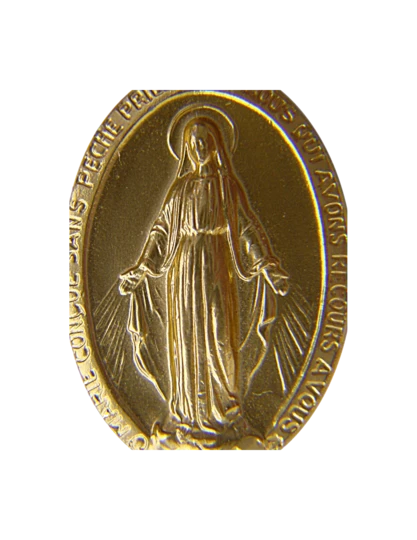
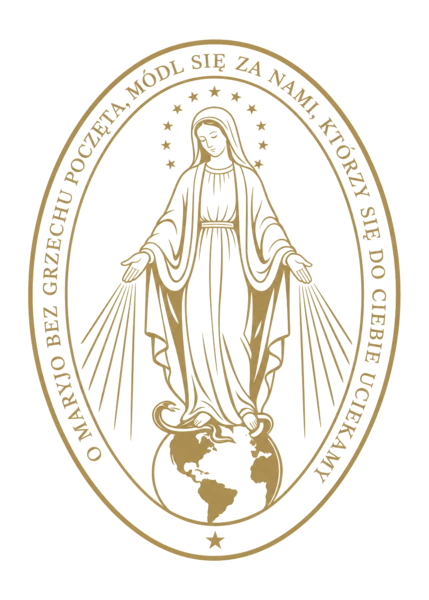
design(grupy): Dzieci Maryi — flache Gold-Illustration via gpt-image-2
Foto der physischen Medaille passte nicht zu den 11 anderen Karten
(visuelle Sprachen-Clash: 3D-Foto vs 2D-Illustrationen). Loesung:
saubere flache Vektor-stil-Illustration via OpenAI gpt-image-2
generiert. Matched jetzt die anderen Logos:
- Warm-Gold-Ton (#a68b5b)
- Flat 2D, keine Metalltexturen / Schatten
- Komplette polnische Inschrift "O MARYJO BEZ GRZECHU POCZETA..."
- Transparent PNG → WebP
- 12-Sterne-Krone, Maria auf Erdkugel mit Schlange, Strahlen
  der Gnade — kanonische Darstellung des Cudownego Medalika

Cost: gpt-image-2 high quality 1024x1024 (geloggt in ~/.openai-image/costs.json)

diff --git a/index.html b/index.html
@@ -778,7 +778,7 @@
       <!-- Grono Dzieci Maryi -->
       <a href="wspolnota-grono-dzieci-maryi.html" class="community-item reveal">
         <div class="community-image community-image--logo" style="background:#f5f1ea;">
-          <img src="images/grupy/grono-dzieci-maryi.webp" alt="Cudowny Medalik – emblemat Grona Dzieci Maryi" loading="lazy" width="460" height="540" onerror="this.style.display='none'; this.nextElementSibling.style.display='flex'">
+          <img src="images/grupy/grono-dzieci-maryi.webp" alt="Cudowny Medalik – emblemat Grona Dzieci Maryi" loading="lazy" width="429" height="600" onerror="this.style.display='none'; this.nextElementSibling.style.display='flex'">
           <div class="community-image-placeholder" style="background: linear-gradient(135deg, #9a8b76, #7a6d5c); display: none;">
             <span class="community-icon">
               <svg viewBox="0 0 24 24" fill="none" stroke="currentColor" stroke-width="1.5"><path d="M12 2l3.09 6.26L22 9.27l-5 4.87 1.18 6.88L12 17.77l-6.18 3.25L7 14.14 2 9.27l6.91-1.01L12 2z"/></svg>

diff --git a/grupy.html b/grupy.html
@@ -211,7 +211,7 @@
 
       <a href="wspolnota-grono-dzieci-maryi.html" class="community-item reveal">
         <div class="community-image community-image--logo" style="background:#f5f1ea;">
-          <img src="images/grupy/grono-dzieci-maryi.webp" alt="Cudowny Medalik – emblemat Grona Dzieci Maryi" loading="lazy" width="460" height="540" onerror="this.style.display='none'; this.nextElementSibling.style.display='flex'">
+          <img src="images/grupy/grono-dzieci-maryi.webp" alt="Cudowny Medalik – emblemat Grona Dzieci Maryi" loading="lazy" width="429" height="600" onerror="this.style.display='none'; this.nextElementSibling.style.display='flex'">
           <div class="community-image-placeholder" style="background: linear-gradient(135deg, #9a8b76, #7a6d5c); display: none;">
             <span class="community-icon">
               <svg viewBox="0 0 24 24" fill="none" stroke="currentColor" stroke-width="1.5"><path d="M12 2l3.09 6.26L22 9.27l-5 4.87 1.18 6.88L12 17.77l-6.18 3.25L7 14.14 2 9.27l6.91-1.01L12 2z"/></svg>
